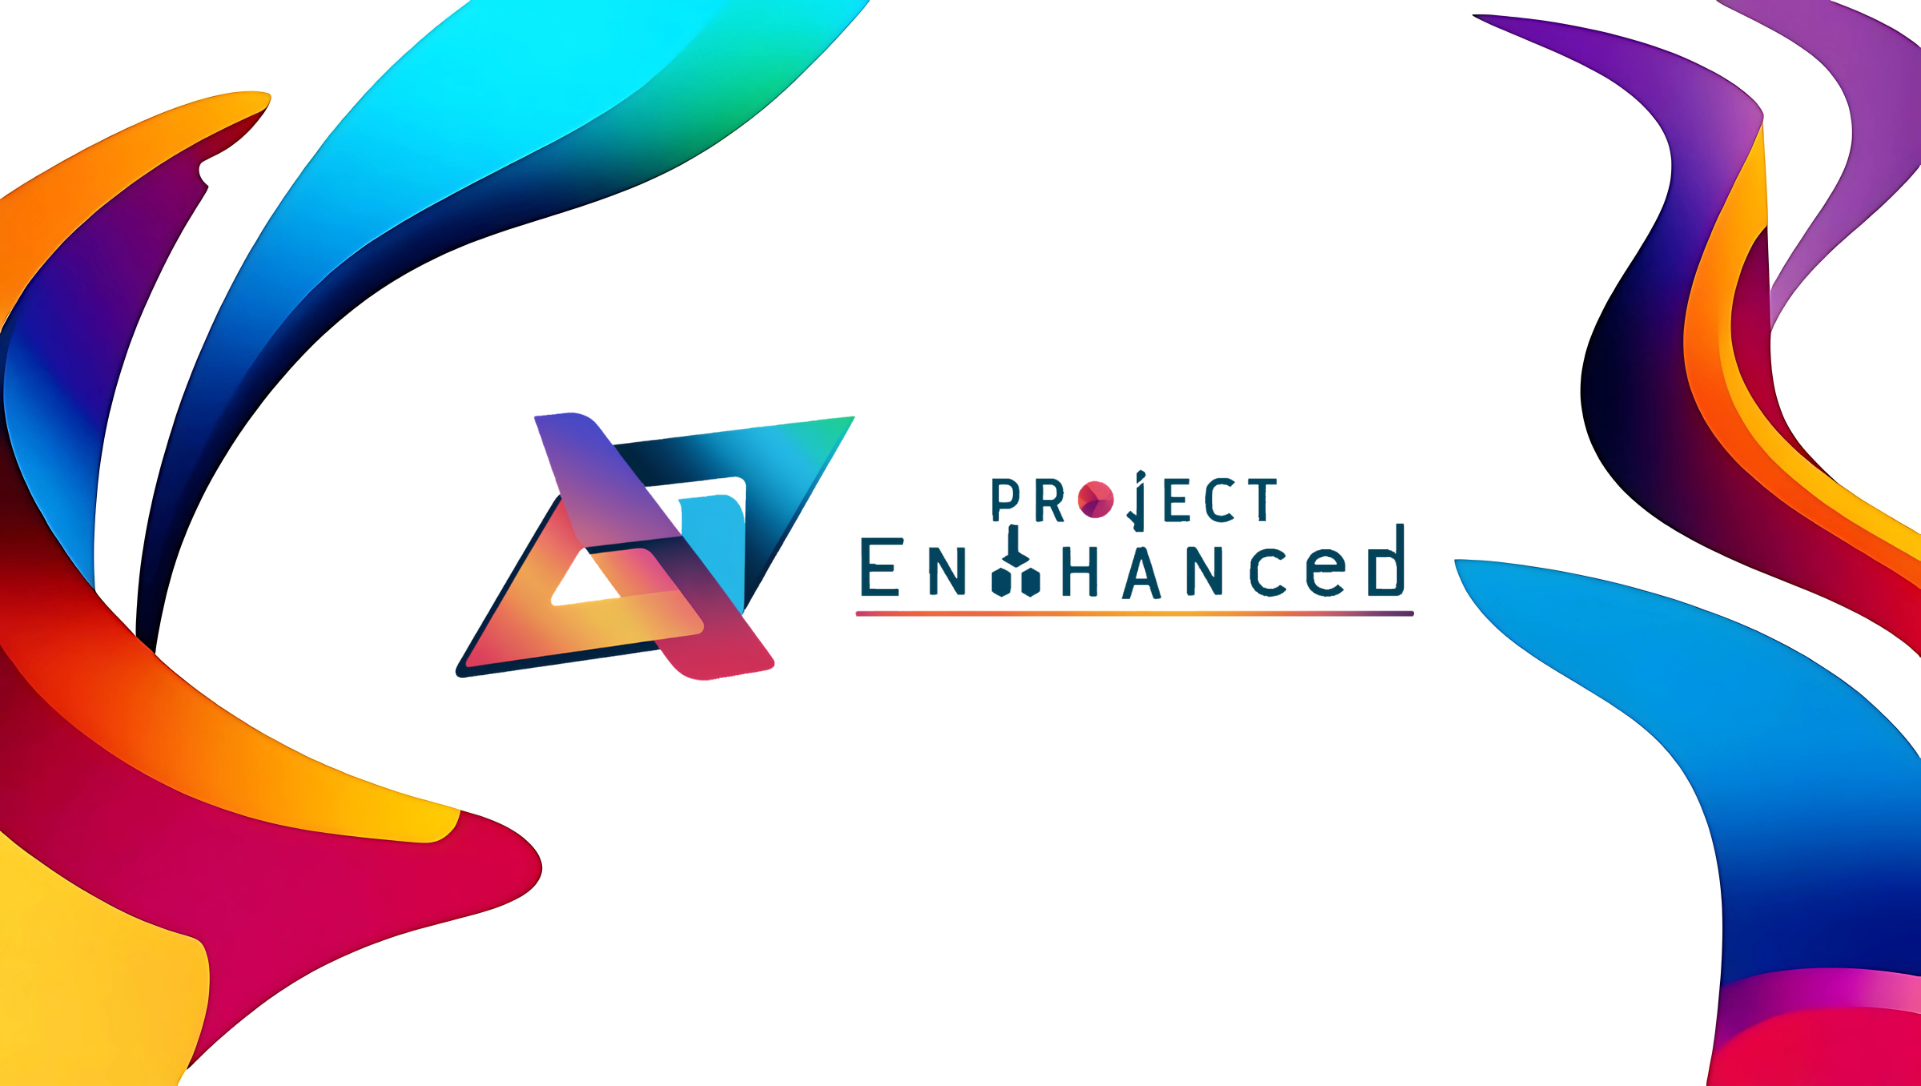
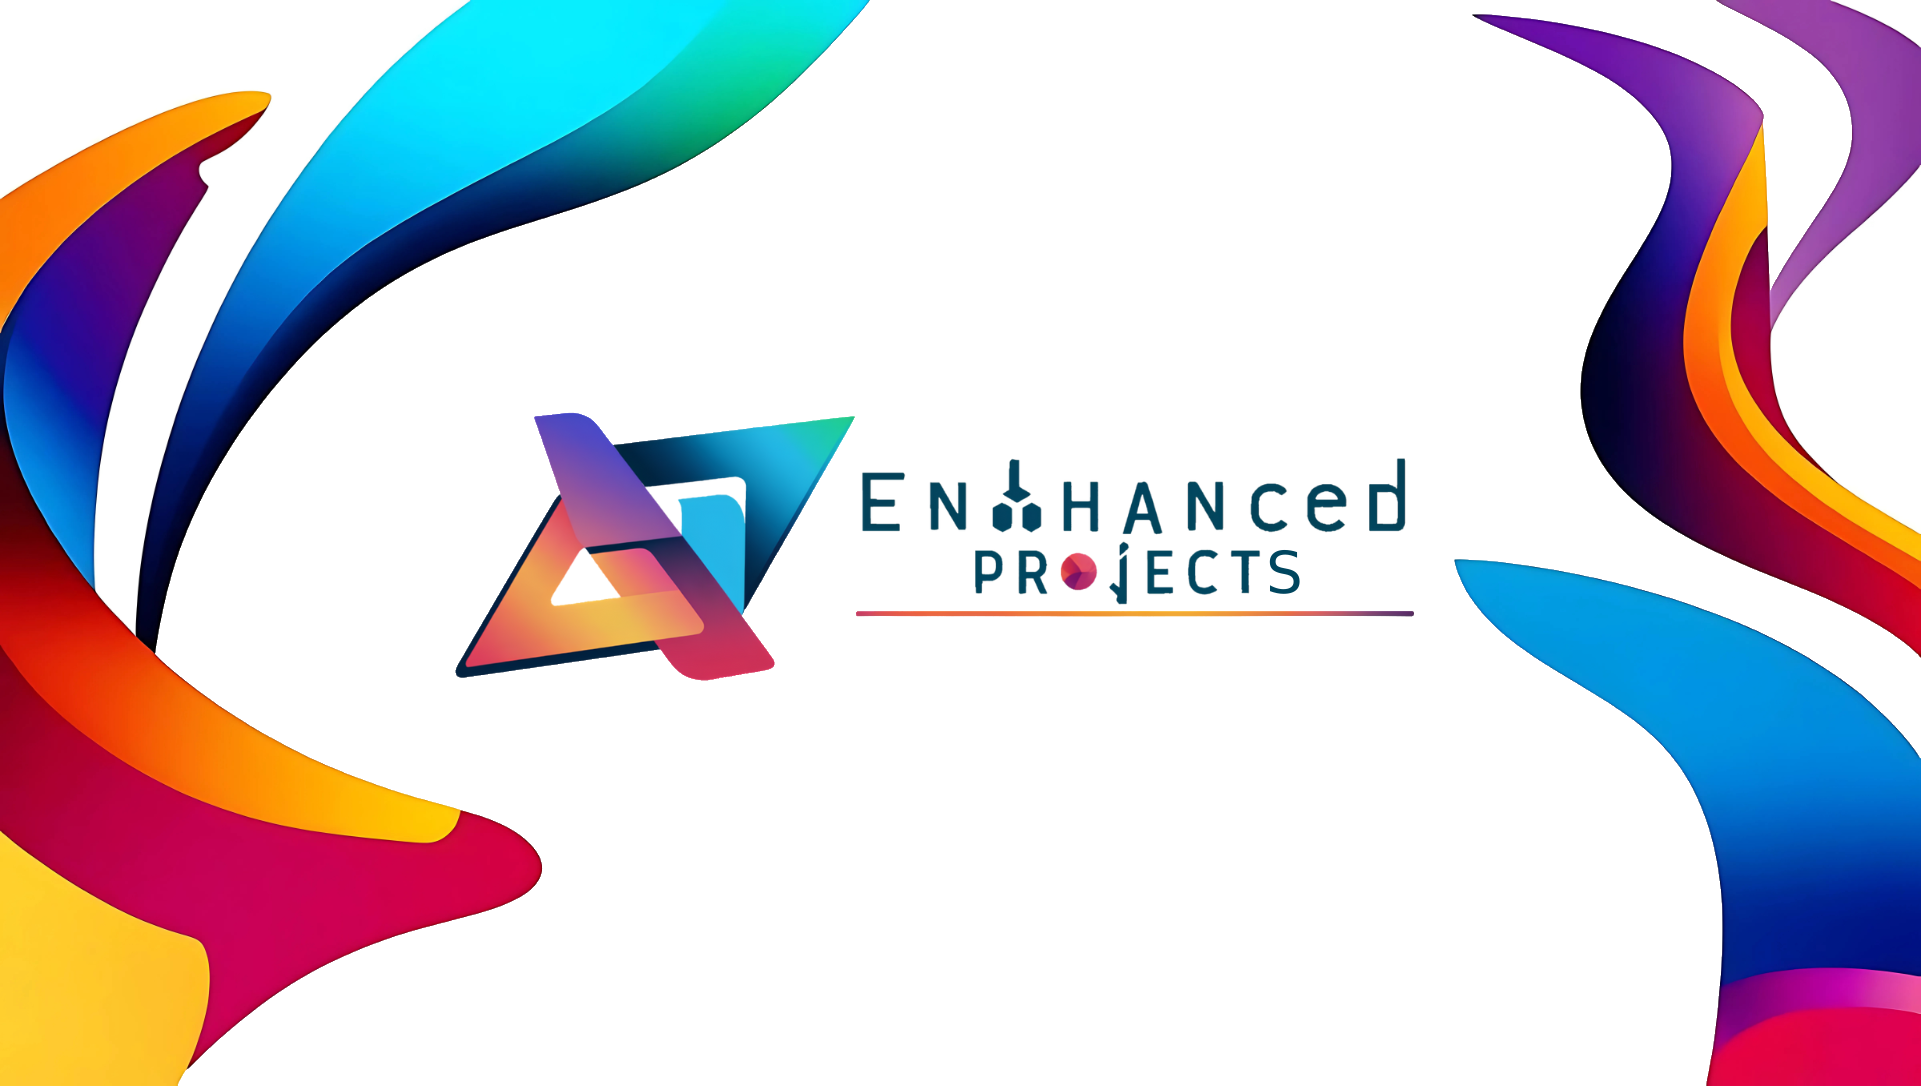
Migration to Enhanced Projects

Changed region(s): [[0.4373, 0.4254, 0.7496, 0.5773]]

diff --git a/docusaurus.config.js b/docusaurus.config.js
@@ -10,10 +10,10 @@ import {themes as prismThemes} from "prism-react-renderer"
 
 /** @type {import('@docusaurus/types').Config} */
 const config = {
-	title: "ProjectEnhanced",
-	tagline: "Enhance popular libraries",
+	title: "EnhancedProjects",
+	tagline: "Let's enhance it!",
 	favicon: "img/favicon.ico",
-	url: "https://projectenhanced.dev",
+	url: "https://enhancedprojects.com",
 	baseUrl: "/",
 
 	onBrokenLinks: "warn",
@@ -65,9 +65,9 @@ const config = {
 		({
 			image: "img/social.png",
 			navbar: {
-				title: "ProjectEnhanced",
+				title: "EnhancedProjects",
 				logo: {
-					alt: "Project Enhanced Logo",
+					alt: "Enhanced Projects Logo",
 					src: "img/logo.png",
 				},
 				items: [
@@ -79,7 +79,7 @@ const config = {
 					},
 					{to: "/blog", label: "Blog", position: "left"},
 					{
-						href: "https://github.com/KPGTB",
+						href: "https://github.com/EnhancedProjects",
 						label: "GitHub",
 						position: "right",
 					},
@@ -96,8 +96,8 @@ const config = {
 								to: "/docs",
 							},
 							{
-								label: "JavaDocs",
-								href: "https://javadocs.projectenhanced.dev",
+								label: "Source Code",
+								href: "https://github.com/EnhancedProjects",
 							},
 						],
 					},
@@ -118,7 +118,7 @@ const config = {
 								to: "/blog",
 							},
 							{
-								label: "GitHub",
+								label: "Founder's GitHub",
 								href: "https://github.com/KPGTB",
 							},
 							{
@@ -129,11 +129,11 @@ const config = {
 					},
 				],
 				logo: {
-					alt: "ProjectEnhanced Logo",
+					alt: "Enhanced Projects Logo",
 					src: "img/logo_tekst.png",
 					width: "50%",
 				},
-				copyright: `<br>Copyright © 2024 - ${new Date().getFullYear()} Project Enhanced founded by KPG-TB.<br>Built with Docusaurus.`,
+				copyright: `<br>Copyright © 2024 - ${new Date().getFullYear()} Enhanced Projects founded by KPG-TB.<br>Built with Docusaurus.`,
 			},
 			prism: {
 				theme: prismThemes.github,

diff --git a/README.md b/README.md
@@ -1,5 +1,5 @@
 <p align="center">
-    <img src="./static/img/logo.png" alt="Project Enhanced Logo" width="40%">
+    <img src="./static/img/logo.png" alt="Enhanced Projects Logo" width="40%">
 </p>
 
-<h1 align="center"><a href="https://projectenhanced.dev">Project Enhanced Documentation</a></h1>
+<h1 align="center"><a href="https://enhancedprojects.com">Enhanced Projects Documentation</a></h1>
